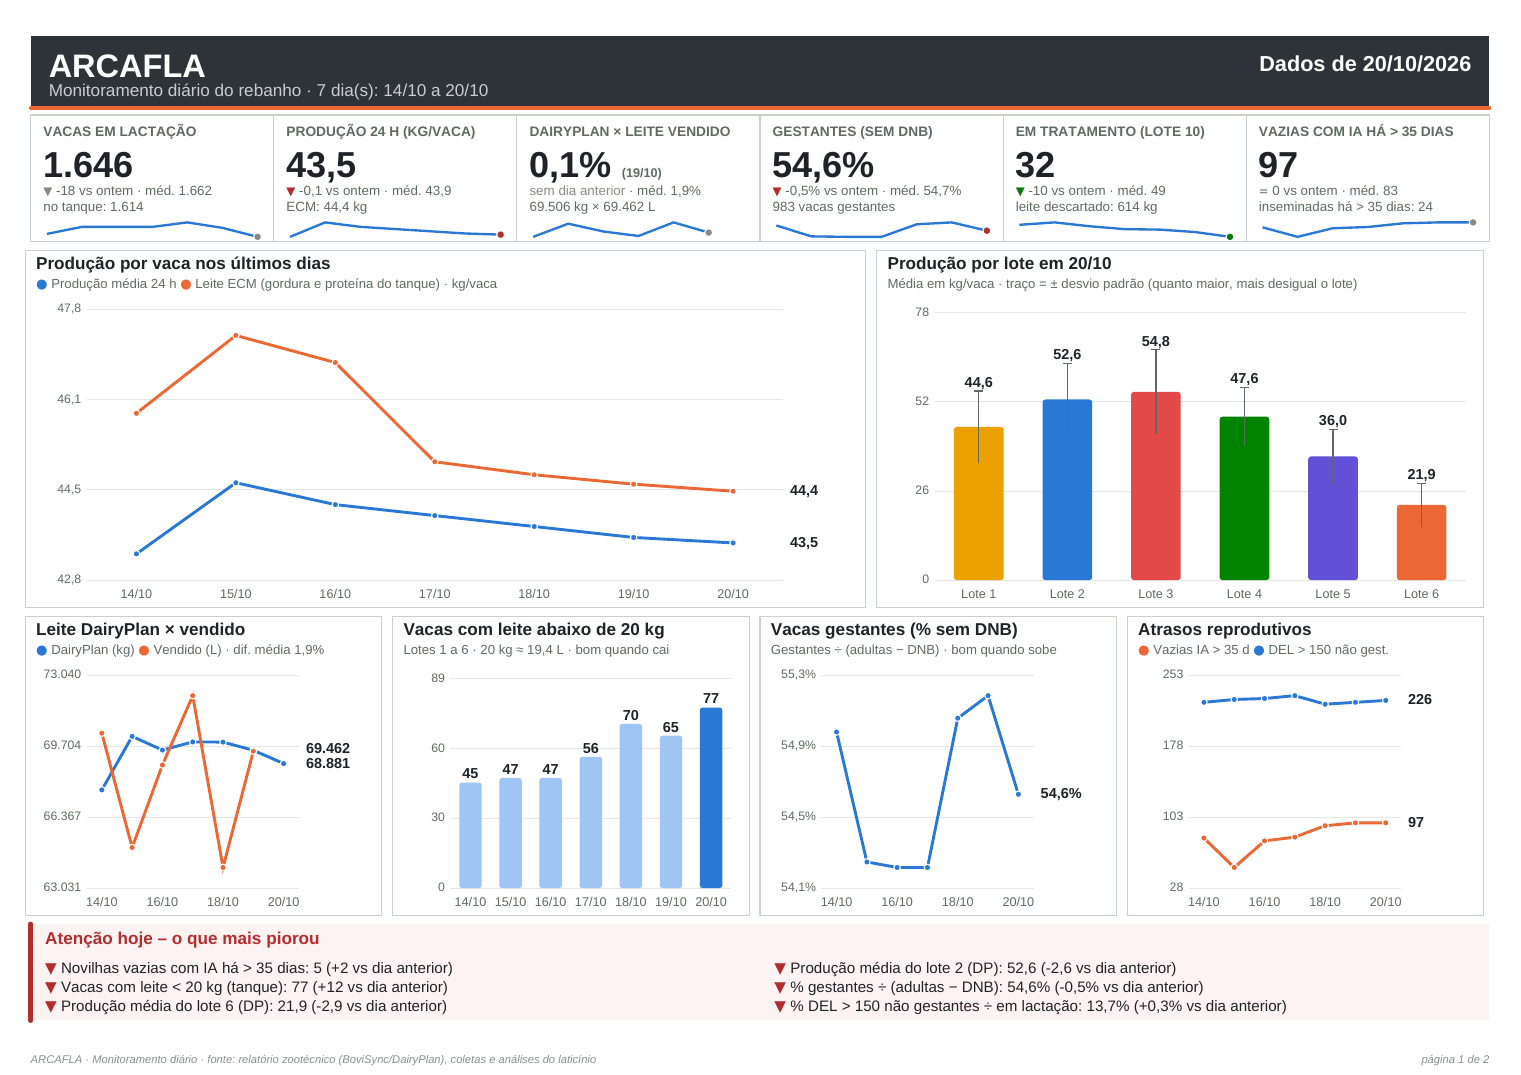
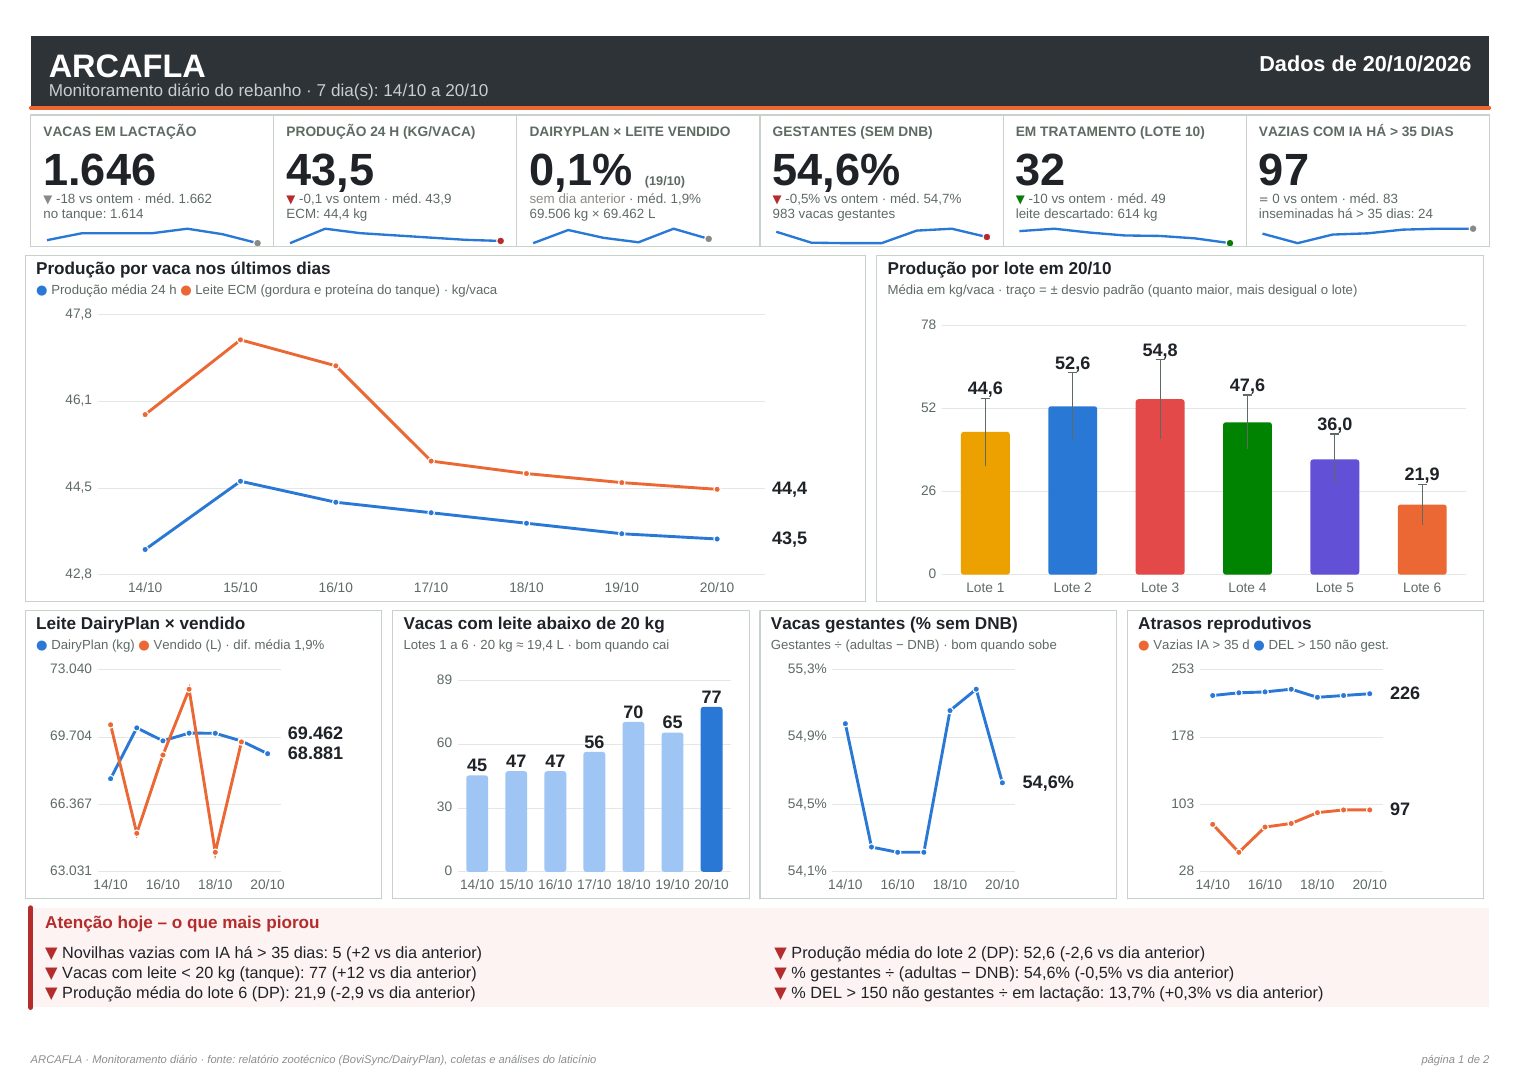
PDF ARCAFLA: números maiores nos cartões, gráficos e tabela
Claude-Session: https://claude.ai/code/session_01E6SmznsG4fwjxZt5rHRDBH

diff --git a/scripts/monitor_pdf.py b/scripts/monitor_pdf.py
@@ -184,11 +184,11 @@ st_cab = est("cab", "LibB", 18, colors.white, 19)
 st_cab2 = est("cab2", "Lib", 9.5, colors.HexColor("#C9CDD1"), 10.5)
 st_cabd = est("cabd", "LibB", 12, colors.white, 14, 2)
 st_k = est("k", "LibB", 7.6, TINTA2, 8.8)
-st_kv = est("kv", "LibB", 20, TINTA, 21)
+st_kv = est("kv", "LibB", 25, TINTA, 26)
 st_ks = est("ks", "Lib", 7.4, TINTA2, 8.6)
 st_gt = est("gt", "LibB", 9.5, TINTA, 11)
 st_gs = est("gs", "Lib", 7.3, TINTA2, 8.6)
-st_at = est("at", "Lib", 8.4, TINTA, 10.4)
+st_at = est("at", "Lib", 9, TINTA, 11)
 st_ath = est("ath", "LibB", 9.5, RUIM, 11)
 st_t2 = est("t2", "LibB", 11, AZUL, 13)
 st_d2 = est("d2", "Lib", 7.5, TINTA2, 9, 2)
@@ -227,7 +227,7 @@ def eixo_x(d, x0, y0, larg, n, rotulos):
         if (n - 1 - i) % passo:
             continue
         x = x0 + (larg * (i + 0.5) / n)
-        d.add(String(x, y0 - 10, r, fontName="Lib", fontSize=7, fillColor=TINTA2, textAnchor="middle"))
+        d.add(String(x, y0 - 10, r, fontName="Lib", fontSize=7.6, fillColor=TINTA2, textAnchor="middle"))
 
 
 def grade_y(d, x0, y0, larg, alt, lo, hi, nf, ticks=3):
@@ -235,13 +235,13 @@ def grade_y(d, x0, y0, larg, alt, lo, hi, nf, ticks=3):
         v = lo + (hi - lo) * t / ticks
         y = y0 + alt * t / ticks
         d.add(Line(x0, y, x0 + larg, y, strokeColor=GRADE, strokeWidth=0.5))
-        d.add(String(x0 - 3, y - 2, fmt(v, nf), fontName="Lib", fontSize=6.8, fillColor=TINTA2, textAnchor="end"))
+        d.add(String(x0 - 3, y - 2, fmt(v, nf), fontName="Lib", fontSize=7.6, fillColor=TINTA2, textAnchor="end"))
 
 
 def grafico_linhas(series, w, h, nf, nf_rot=None, zero=False):
     """series: [(nome, valores, cor)]. Rótulo direto no último ponto de cada série."""
     d = Drawing(w, h)
-    x0, y0, larg, alt = 28, 14, w - 28 - 42, h - 22
+    x0, y0, larg, alt = 34, 14, w - 34 - 52, h - 22
     todos = [v for _, vs, _ in series for v in vs]
     lo, hi = escala(todos, zero)
     grade_y(d, x0, y0, larg, alt, lo, hi, nf)
@@ -258,16 +258,16 @@ def grafico_linhas(series, w, h, nf, nf_rot=None, zero=False):
     # rótulos no fim das linhas sem sobreposição (afasta verticalmente os que ficam a < 8 pt)
     rotulos.sort(key=lambda r: r[1])
     for i in range(1, len(rotulos)):
-        if rotulos[i][1] - rotulos[i - 1][1] < 8:
-            rotulos[i][1] = rotulos[i - 1][1] + 8
+        if rotulos[i][1] - rotulos[i - 1][1] < 11:
+            rotulos[i][1] = rotulos[i - 1][1] + 11
     for x, y, txt in rotulos:
-        d.add(String(x0 + larg + 4, y - 2.5, txt, fontName="LibB", fontSize=8, fillColor=TINTA))
+        d.add(String(x0 + larg + 4, y - 3, txt, fontName="LibB", fontSize=10, fillColor=TINTA))
     return d
 
 
 def grafico_barras(rotulos, vals, w, h, nf, cor=S1, erros=None, destaque_ult=False, cores=None):
     d = Drawing(w, h)
-    x0, y0, larg, alt = 26, 14, w - 26 - 6, h - 24
+    x0, y0, larg, alt = 30, 14, w - 30 - 6, h - 28
     topo = [(v or 0) + ((erros[i] or 0) if erros else 0) for i, v in enumerate(vals)]
     lo, hi = escala(topo + [0], zero=True, folga=0.16)
     grade_y(d, x0, y0, larg, alt, lo, hi, nf.replace(".0", "") if "%" not in nf else nf)
@@ -275,7 +275,7 @@ def grafico_barras(rotulos, vals, w, h, nf, cor=S1, erros=None, destaque_ult=Fal
     bw = larg / n * 0.56
     for i, v in enumerate(vals):
         cx = x0 + larg * (i + 0.5) / n
-        d.add(String(cx, y0 - 10, rotulos[i], fontName="Lib", fontSize=7, fillColor=TINTA2, textAnchor="middle"))
+        d.add(String(cx, y0 - 10, rotulos[i], fontName="Lib", fontSize=7.6, fillColor=TINTA2, textAnchor="middle"))
         if v is None:
             continue
         c = (cores[i] if cores else cor)
@@ -289,7 +289,7 @@ def grafico_barras(rotulos, vals, w, h, nf, cor=S1, erros=None, destaque_ult=Fal
             d.add(Line(cx, y0 + hb - e, cx, y0 + hb + e, strokeColor=TINTA2, strokeWidth=0.7))
             d.add(Line(cx - 2.5, y0 + hb + e, cx + 2.5, y0 + hb + e, strokeColor=TINTA2, strokeWidth=0.7))
             topo_txt = y0 + hb + e + 2
-        d.add(String(cx, topo_txt, fmt(v, nf), fontName="LibB", fontSize=8, fillColor=TINTA, textAnchor="middle"))
+        d.add(String(cx, topo_txt, fmt(v, nf), fontName="LibB", fontSize=10, fillColor=TINTA, textAnchor="middle"))
     return d
 
 
@@ -361,7 +361,7 @@ def cartao(titulo, rot, extra, w):
         l2 += f"<br/>{extra}"
     corpo = Table([[Paragraph(titulo.upper(), st_k)], [Paragraph(valor, st_kv)], [Paragraph(l2, st_ks)],
                    [sparkline([num(v) for v in it["vals"]], w - 12, 13, cor_juizo(j))]],
-                  colWidths=[w - 4], rowHeights=[10, 22, 20, 14])
+                  colWidths=[w - 4], rowHeights=[10, 26, 20, 13])
     corpo.setStyle(TableStyle([("LEFTPADDING", (0, 0), (-1, -1), 6), ("RIGHTPADDING", (0, 0), (-1, -1), 2),
                                ("TOPPADDING", (0, 0), (-1, -1), 0), ("BOTTOMPADDING", (0, 0), (-1, -1), 0),
                                ("VALIGN", (0, 0), (-1, -1), "MIDDLE")]))
@@ -392,7 +392,7 @@ cards = [
     cartao("Vazias com IA há > 35 dias", "Vazias com IA há > 35 dias",
            f'inseminadas há > 35 dias: {v_ult("Inseminadas (Bred) com IA há > 35 dias", "0")}', CW),
 ]
-painel = Table([cards], colWidths=[CW] * 6, rowHeights=[70])
+painel = Table([cards], colWidths=[CW] * 6, rowHeights=[73])
 painel.setStyle(TableStyle([("BOX", (0, 0), (-1, -1), 0.6, LINHA), ("INNERGRID", (0, 0), (-1, -1), 0.6, LINHA),
                             ("BACKGROUND", (0, 0), (-1, -1), colors.white), ("VALIGN", (0, 0), (-1, -1), "TOP"),
                             ("LEFTPADDING", (0, 0), (-1, -1), 1), ("RIGHTPADDING", (0, 0), (-1, -1), 1),
@@ -400,7 +400,7 @@ painel.setStyle(TableStyle([("BOX", (0, 0), (-1, -1), 0.6, LINHA), ("INNERGRID",
 
 # ---------------------------------------------------------------- página 1: gráficos
 G1W, G2W = LARG * 0.58 - 3, LARG * 0.42 - 3
-GH1 = 172
+GH1 = 166
 g_prod = caixa("Produção por vaca nos últimos dias",
                legenda_series([("Produção média 24 h", S1), ("Leite ECM (gordura e proteína do tanque)", S2)])
                + " · kg/vaca",
@@ -417,7 +417,7 @@ g_lote = caixa(f"Produção por lote em {ultimo:%d/%m}",
                G2W)
 
 G3W = LARG / 4 - 4.5
-GH2 = 140
+GH2 = 134
 dp_s, vd_s = serie("Leite Total dia DairyPlan"), serie("Leite vendido no dia (coletas do laticínio)")
 dif = itens.get("Diferença DairyPlan × vendido")
 dif_med = fmt(dif["media"], dif["mfmt"]) if dif and dif["media"] not in (None, "") else "–"
@@ -490,7 +490,8 @@ CVAR = CMED + 1 if vcol else None
 n_linhas = 1 + sum(1 for l in linhas if l["tipo"] != "bloco")
 ALT = min(11, (ALTP - 20 - 22 - 10) / n_linhas)
 FS = min(8.4, ALT - 0.9)
-st_c = est("c", "Lib", FS, TINTA, FS + 0.3, 2)
+FSN = min(9.2, ALT - 0.6)  # números da tabela, maiores que os rótulos
+st_c = est("c", "Lib", FSN, TINTA, FSN + 0.2, 2)
 dados = [cabec]
 estilo = [
     ("FONT", (0, 0), (-1, -1), "Lib", FS), ("TEXTCOLOR", (0, 0), (-1, -1), TINTA),
@@ -498,13 +499,14 @@ estilo = [
     ("ALIGN", (2, 0), (-1, -1), "CENTER"), ("ALIGN", (CDIA0, 1), (-1, -1), "RIGHT"),
     ("VALIGN", (0, 0), (-1, -1), "MIDDLE"), ("LINEBELOW", (0, 0), (-1, -1), 0.25, LINHA),
     ("BOX", (0, 0), (-1, -1), 0.5, LINHA),
-    ("TOPPADDING", (0, 0), (-1, -1), 0), ("BOTTOMPADDING", (0, 0), (-1, -1), 0.8),
+    ("TOPPADDING", (0, 0), (-1, -1), 0), ("BOTTOMPADDING", (0, 0), (-1, -1), 1.4),
     ("LEFTPADDING", (0, 0), (-1, -1), 2.5), ("RIGHTPADDING", (0, 0), (-1, -1), 2.5),
     ("TEXTCOLOR", (2, 1), (2, -1), TINTA2), ("FONTSIZE", (2, 1), (2, -1), FS - 1),
     ("FONT", (3, 1), (3, -1), "Sym", FS), ("TEXTCOLOR", (3, 1), (3, -1), AZUL),
     ("BACKGROUND", (CDIA0 + ND - 1, 1), (CDIA0 + ND - 1, -1), HOJE),
     ("BACKGROUND", (CMED, 1), (CMED, -1), MEDIA),
-    ("FONT", (CDIA0 + ND - 1, 0), (CDIA0 + ND - 1, -1), "LibB", FS), ("FONT", (CMED, 0), (CMED, -1), "LibB", FS),
+    ("FONTSIZE", (CDIA0, 1), (CMED, -1), FSN),
+    ("FONT", (CDIA0 + ND - 1, 0), (CDIA0 + ND - 1, -1), "LibB", FSN), ("FONT", (CMED, 0), (CMED, -1), "LibB", FSN),
 ]
 blocos, bloco_ini, bloco_rot, n = [], None, None, 0
 
@@ -534,7 +536,7 @@ for l in linhas:
     vals = [fmt(v, f) for v, f in zip(l["vals"], l["fmts"])]
     linha = ["", ("    " if l["sub"] else "") + l["rot"], l["un"], l["melhor"]] + vals + [fmt(l["media"], l["mfmt"])]
     if vcol:
-        linha.append(Paragraph(var_html(l, FS), st_c))
+        linha.append(Paragraph(var_html(l, FSN), st_c))
         j = juizo(l["melhor"], l["var"])
         if j:
             estilo.append(("BACKGROUND", (CVAR, i), (CVAR, i), BOM_BG if j == "bom" else RUIM_BG))
@@ -552,7 +554,7 @@ for l in linhas:
                    ("FONT", (1, i), (1, i), "LibB", FS)]
     for k, v in enumerate(l["vals"]):
         if isinstance(v, str):
-            estilo.append(("FONTSIZE", (CDIA0 + k, i), (CDIA0 + k, i), FS - 0.6))
+            estilo.append(("FONTSIZE", (CDIA0 + k, i), (CDIA0 + k, i), FSN - 0.9))
     n += 1
 fecha_bloco(len(dados) - 1)
 for ini, fim, rot in blocos:
